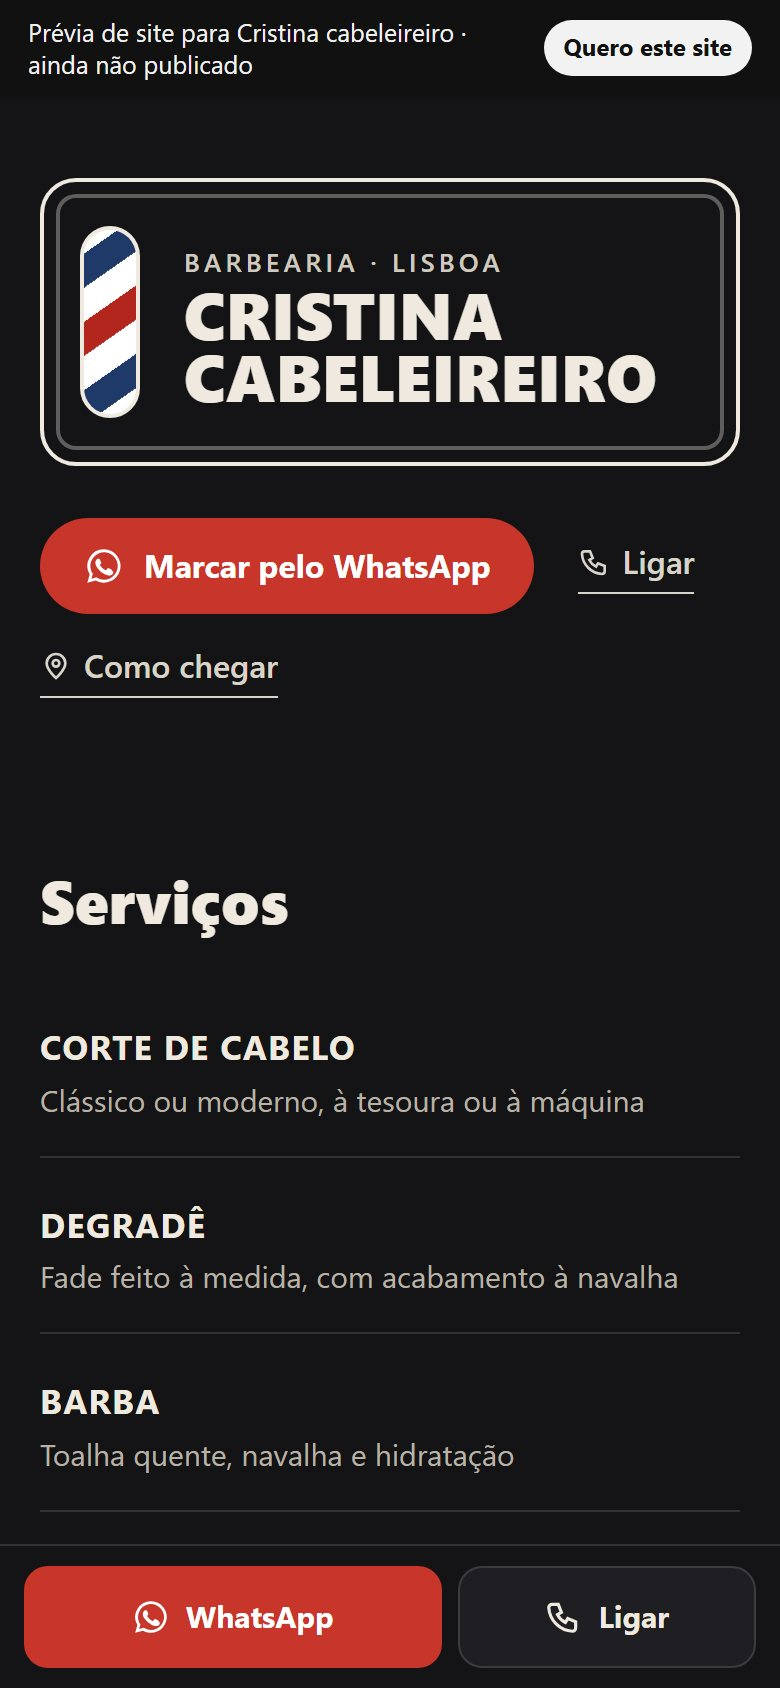
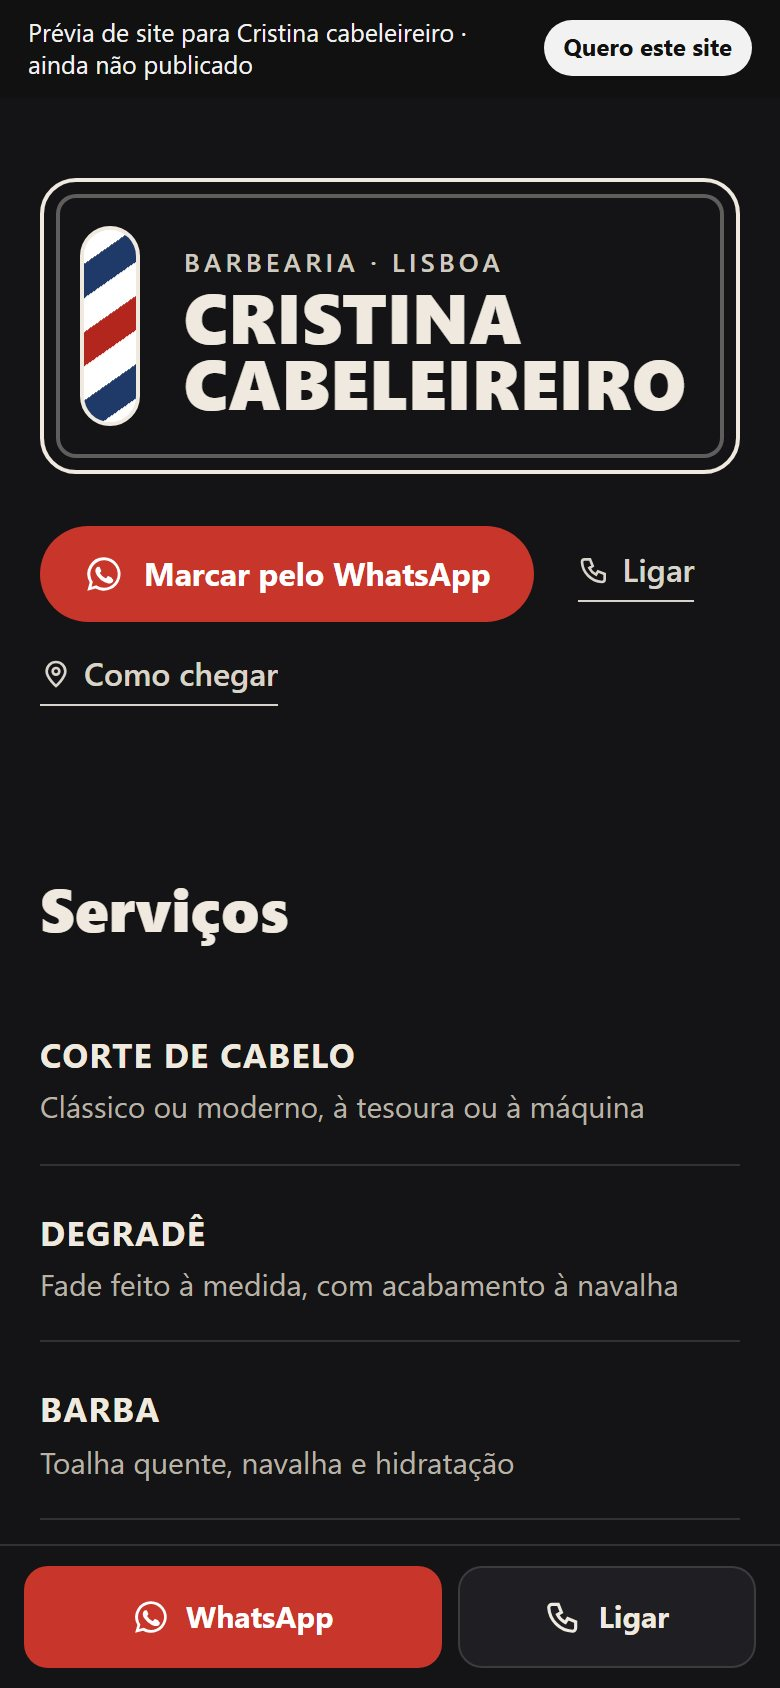
Regera prévias

diff --git a/barbas-shop-paris-lisboa/index.html b/barbas-shop-paris-lisboa/index.html
@@ -33,7 +33,7 @@ a{color:inherit}
 .lnk{display:inline-flex;align-items:center;gap:6px;font-weight:600;text-decoration:none;border-bottom:1.5px solid currentColor;padding-bottom:2px;opacity:.9}
 .lnk svg{width:16px;height:16px}
 .hero{position:relative;overflow:hidden}
-.nome{font-family:var(--titulo);font-weight:var(--peso-titulo,700);line-height:.95;letter-spacing:var(--esp-titulo,0);font-size:clamp(44px,12vw,108px);overflow-wrap:break-word}
+.nome{font-family:var(--titulo);font-weight:var(--peso-titulo,700);line-height:.95;letter-spacing:var(--esp-titulo,0);font-size:clamp(44px,12vw,108px);overflow-wrap:normal;min-width:0;max-width:100%}
 .tipo{font-size:13px;letter-spacing:.16em;text-transform:uppercase;font-weight:600;opacity:.85}
 .estrelas{display:inline-flex;align-items:center;gap:8px;font-size:14.5px;font-weight:600}
 .estrelas i{font-style:normal;letter-spacing:2px;color:var(--estrela)}
@@ -240,11 +240,10 @@ html.captura .mapa iframe{display:none}
   if(/[?&]captura=1/.test(location.search)) h.classList.add('captura');
   function ajustar(){
     document.querySelectorAll('[data-ajustar]').forEach(function(el){
-      el.style.fontSize='';
-      var cs=parseFloat(getComputedStyle(el).fontSize), lh=cs*1.0, max=2;
-      var w=el.parentElement.clientWidth;
-      var tries=0;
-      while((el.scrollWidth>w+2 || el.offsetHeight>lh*max*1.12) && cs>22 && tries<60){cs-=2;el.style.fontSize=cs+'px';lh=cs;tries++;}
+      el.style.fontSize=''; el.style.overflowWrap='normal';
+      var cs=parseFloat(getComputedStyle(el).fontSize), tries=0;
+      while((el.scrollWidth>el.clientWidth+1 || el.offsetHeight>cs*2.25) && cs>22 && tries<90){cs-=2;el.style.fontSize=cs+'px';tries++;}
+      if(el.scrollWidth>el.clientWidth+1) el.style.overflowWrap='anywhere';
     });
   }
   ajustar(); window.addEventListener('resize',ajustar);

diff --git a/barbearia-atlas-lisboa/index.html b/barbearia-atlas-lisboa/index.html
@@ -33,7 +33,7 @@ a{color:inherit}
 .lnk{display:inline-flex;align-items:center;gap:6px;font-weight:600;text-decoration:none;border-bottom:1.5px solid currentColor;padding-bottom:2px;opacity:.9}
 .lnk svg{width:16px;height:16px}
 .hero{position:relative;overflow:hidden}
-.nome{font-family:var(--titulo);font-weight:var(--peso-titulo,700);line-height:.95;letter-spacing:var(--esp-titulo,0);font-size:clamp(44px,12vw,108px);overflow-wrap:break-word}
+.nome{font-family:var(--titulo);font-weight:var(--peso-titulo,700);line-height:.95;letter-spacing:var(--esp-titulo,0);font-size:clamp(44px,12vw,108px);overflow-wrap:normal;min-width:0;max-width:100%}
 .tipo{font-size:13px;letter-spacing:.16em;text-transform:uppercase;font-weight:600;opacity:.85}
 .estrelas{display:inline-flex;align-items:center;gap:8px;font-size:14.5px;font-weight:600}
 .estrelas i{font-style:normal;letter-spacing:2px;color:var(--estrela)}
@@ -240,11 +240,10 @@ html.captura .mapa iframe{display:none}
   if(/[?&]captura=1/.test(location.search)) h.classList.add('captura');
   function ajustar(){
     document.querySelectorAll('[data-ajustar]').forEach(function(el){
-      el.style.fontSize='';
-      var cs=parseFloat(getComputedStyle(el).fontSize), lh=cs*1.0, max=2;
-      var w=el.parentElement.clientWidth;
-      var tries=0;
-      while((el.scrollWidth>w+2 || el.offsetHeight>lh*max*1.12) && cs>22 && tries<60){cs-=2;el.style.fontSize=cs+'px';lh=cs;tries++;}
+      el.style.fontSize=''; el.style.overflowWrap='normal';
+      var cs=parseFloat(getComputedStyle(el).fontSize), tries=0;
+      while((el.scrollWidth>el.clientWidth+1 || el.offsetHeight>cs*2.25) && cs>22 && tries<90){cs-=2;el.style.fontSize=cs+'px';tries++;}
+      if(el.scrollWidth>el.clientWidth+1) el.style.overflowWrap='anywhere';
     });
   }
   ajustar(); window.addEventListener('resize',ajustar);

diff --git a/barbearia-suprema-lisboa/index.html b/barbearia-suprema-lisboa/index.html
@@ -33,7 +33,7 @@ a{color:inherit}
 .lnk{display:inline-flex;align-items:center;gap:6px;font-weight:600;text-decoration:none;border-bottom:1.5px solid currentColor;padding-bottom:2px;opacity:.9}
 .lnk svg{width:16px;height:16px}
 .hero{position:relative;overflow:hidden}
-.nome{font-family:var(--titulo);font-weight:var(--peso-titulo,700);line-height:.95;letter-spacing:var(--esp-titulo,0);font-size:clamp(44px,12vw,108px);overflow-wrap:break-word}
+.nome{font-family:var(--titulo);font-weight:var(--peso-titulo,700);line-height:.95;letter-spacing:var(--esp-titulo,0);font-size:clamp(44px,12vw,108px);overflow-wrap:normal;min-width:0;max-width:100%}
 .tipo{font-size:13px;letter-spacing:.16em;text-transform:uppercase;font-weight:600;opacity:.85}
 .estrelas{display:inline-flex;align-items:center;gap:8px;font-size:14.5px;font-weight:600}
 .estrelas i{font-style:normal;letter-spacing:2px;color:var(--estrela)}
@@ -240,11 +240,10 @@ html.captura .mapa iframe{display:none}
   if(/[?&]captura=1/.test(location.search)) h.classList.add('captura');
   function ajustar(){
     document.querySelectorAll('[data-ajustar]').forEach(function(el){
-      el.style.fontSize='';
-      var cs=parseFloat(getComputedStyle(el).fontSize), lh=cs*1.0, max=2;
-      var w=el.parentElement.clientWidth;
-      var tries=0;
-      while((el.scrollWidth>w+2 || el.offsetHeight>lh*max*1.12) && cs>22 && tries<60){cs-=2;el.style.fontSize=cs+'px';lh=cs;tries++;}
+      el.style.fontSize=''; el.style.overflowWrap='normal';
+      var cs=parseFloat(getComputedStyle(el).fontSize), tries=0;
+      while((el.scrollWidth>el.clientWidth+1 || el.offsetHeight>cs*2.25) && cs>22 && tries<90){cs-=2;el.style.fontSize=cs+'px';tries++;}
+      if(el.scrollWidth>el.clientWidth+1) el.style.overflowWrap='anywhere';
     });
   }
   ajustar(); window.addEventListener('resize',ajustar);

diff --git a/barbeiro-infante-lisboa/index.html b/barbeiro-infante-lisboa/index.html
@@ -33,7 +33,7 @@ a{color:inherit}
 .lnk{display:inline-flex;align-items:center;gap:6px;font-weight:600;text-decoration:none;border-bottom:1.5px solid currentColor;padding-bottom:2px;opacity:.9}
 .lnk svg{width:16px;height:16px}
 .hero{position:relative;overflow:hidden}
-.nome{font-family:var(--titulo);font-weight:var(--peso-titulo,700);line-height:.95;letter-spacing:var(--esp-titulo,0);font-size:clamp(44px,12vw,108px);overflow-wrap:break-word}
+.nome{font-family:var(--titulo);font-weight:var(--peso-titulo,700);line-height:.95;letter-spacing:var(--esp-titulo,0);font-size:clamp(44px,12vw,108px);overflow-wrap:normal;min-width:0;max-width:100%}
 .tipo{font-size:13px;letter-spacing:.16em;text-transform:uppercase;font-weight:600;opacity:.85}
 .estrelas{display:inline-flex;align-items:center;gap:8px;font-size:14.5px;font-weight:600}
 .estrelas i{font-style:normal;letter-spacing:2px;color:var(--estrela)}
@@ -240,11 +240,10 @@ html.captura .mapa iframe{display:none}
   if(/[?&]captura=1/.test(location.search)) h.classList.add('captura');
   function ajustar(){
     document.querySelectorAll('[data-ajustar]').forEach(function(el){
-      el.style.fontSize='';
-      var cs=parseFloat(getComputedStyle(el).fontSize), lh=cs*1.0, max=2;
-      var w=el.parentElement.clientWidth;
-      var tries=0;
-      while((el.scrollWidth>w+2 || el.offsetHeight>lh*max*1.12) && cs>22 && tries<60){cs-=2;el.style.fontSize=cs+'px';lh=cs;tries++;}
+      el.style.fontSize=''; el.style.overflowWrap='normal';
+      var cs=parseFloat(getComputedStyle(el).fontSize), tries=0;
+      while((el.scrollWidth>el.clientWidth+1 || el.offsetHeight>cs*2.25) && cs>22 && tries<90){cs-=2;el.style.fontSize=cs+'px';tries++;}
+      if(el.scrollWidth>el.clientWidth+1) el.style.overflowWrap='anywhere';
     });
   }
   ajustar(); window.addEventListener('resize',ajustar);

diff --git a/brave-barber-shop-lisboa/index.html b/brave-barber-shop-lisboa/index.html
@@ -33,7 +33,7 @@ a{color:inherit}
 .lnk{display:inline-flex;align-items:center;gap:6px;font-weight:600;text-decoration:none;border-bottom:1.5px solid currentColor;padding-bottom:2px;opacity:.9}
 .lnk svg{width:16px;height:16px}
 .hero{position:relative;overflow:hidden}
-.nome{font-family:var(--titulo);font-weight:var(--peso-titulo,700);line-height:.95;letter-spacing:var(--esp-titulo,0);font-size:clamp(44px,12vw,108px);overflow-wrap:break-word}
+.nome{font-family:var(--titulo);font-weight:var(--peso-titulo,700);line-height:.95;letter-spacing:var(--esp-titulo,0);font-size:clamp(44px,12vw,108px);overflow-wrap:normal;min-width:0;max-width:100%}
 .tipo{font-size:13px;letter-spacing:.16em;text-transform:uppercase;font-weight:600;opacity:.85}
 .estrelas{display:inline-flex;align-items:center;gap:8px;font-size:14.5px;font-weight:600}
 .estrelas i{font-style:normal;letter-spacing:2px;color:var(--estrela)}
@@ -240,11 +240,10 @@ html.captura .mapa iframe{display:none}
   if(/[?&]captura=1/.test(location.search)) h.classList.add('captura');
   function ajustar(){
     document.querySelectorAll('[data-ajustar]').forEach(function(el){
-      el.style.fontSize='';
-      var cs=parseFloat(getComputedStyle(el).fontSize), lh=cs*1.0, max=2;
-      var w=el.parentElement.clientWidth;
-      var tries=0;
-      while((el.scrollWidth>w+2 || el.offsetHeight>lh*max*1.12) && cs>22 && tries<60){cs-=2;el.style.fontSize=cs+'px';lh=cs;tries++;}
+      el.style.fontSize=''; el.style.overflowWrap='normal';
+      var cs=parseFloat(getComputedStyle(el).fontSize), tries=0;
+      while((el.scrollWidth>el.clientWidth+1 || el.offsetHeight>cs*2.25) && cs>22 && tries<90){cs-=2;el.style.fontSize=cs+'px';tries++;}
+      if(el.scrollWidth>el.clientWidth+1) el.style.overflowWrap='anywhere';
     });
   }
   ajustar(); window.addEventListener('resize',ajustar);

diff --git a/cristina-cabeleireiro-lisboa/index.html b/cristina-cabeleireiro-lisboa/index.html
@@ -33,7 +33,7 @@ a{color:inherit}
 .lnk{display:inline-flex;align-items:center;gap:6px;font-weight:600;text-decoration:none;border-bottom:1.5px solid currentColor;padding-bottom:2px;opacity:.9}
 .lnk svg{width:16px;height:16px}
 .hero{position:relative;overflow:hidden}
-.nome{font-family:var(--titulo);font-weight:var(--peso-titulo,700);line-height:.95;letter-spacing:var(--esp-titulo,0);font-size:clamp(44px,12vw,108px);overflow-wrap:break-word}
+.nome{font-family:var(--titulo);font-weight:var(--peso-titulo,700);line-height:.95;letter-spacing:var(--esp-titulo,0);font-size:clamp(44px,12vw,108px);overflow-wrap:normal;min-width:0;max-width:100%}
 .tipo{font-size:13px;letter-spacing:.16em;text-transform:uppercase;font-weight:600;opacity:.85}
 .estrelas{display:inline-flex;align-items:center;gap:8px;font-size:14.5px;font-weight:600}
 .estrelas i{font-style:normal;letter-spacing:2px;color:var(--estrela)}
@@ -240,11 +240,10 @@ html.captura .mapa iframe{display:none}
   if(/[?&]captura=1/.test(location.search)) h.classList.add('captura');
   function ajustar(){
     document.querySelectorAll('[data-ajustar]').forEach(function(el){
-      el.style.fontSize='';
-      var cs=parseFloat(getComputedStyle(el).fontSize), lh=cs*1.0, max=2;
-      var w=el.parentElement.clientWidth;
-      var tries=0;
-      while((el.scrollWidth>w+2 || el.offsetHeight>lh*max*1.12) && cs>22 && tries<60){cs-=2;el.style.fontSize=cs+'px';lh=cs;tries++;}
+      el.style.fontSize=''; el.style.overflowWrap='normal';
+      var cs=parseFloat(getComputedStyle(el).fontSize), tries=0;
+      while((el.scrollWidth>el.clientWidth+1 || el.offsetHeight>cs*2.25) && cs>22 && tries<90){cs-=2;el.style.fontSize=cs+'px';tries++;}
+      if(el.scrollWidth>el.clientWidth+1) el.style.overflowWrap='anywhere';
     });
   }
   ajustar(); window.addEventListener('resize',ajustar);

diff --git a/elpatronbarbershop6-lisboa/index.html b/elpatronbarbershop6-lisboa/index.html
@@ -33,7 +33,7 @@ a{color:inherit}
 .lnk{display:inline-flex;align-items:center;gap:6px;font-weight:600;text-decoration:none;border-bottom:1.5px solid currentColor;padding-bottom:2px;opacity:.9}
 .lnk svg{width:16px;height:16px}
 .hero{position:relative;overflow:hidden}
-.nome{font-family:var(--titulo);font-weight:var(--peso-titulo,700);line-height:.95;letter-spacing:var(--esp-titulo,0);font-size:clamp(44px,12vw,108px);overflow-wrap:break-word}
+.nome{font-family:var(--titulo);font-weight:var(--peso-titulo,700);line-height:.95;letter-spacing:var(--esp-titulo,0);font-size:clamp(44px,12vw,108px);overflow-wrap:normal;min-width:0;max-width:100%}
 .tipo{font-size:13px;letter-spacing:.16em;text-transform:uppercase;font-weight:600;opacity:.85}
 .estrelas{display:inline-flex;align-items:center;gap:8px;font-size:14.5px;font-weight:600}
 .estrelas i{font-style:normal;letter-spacing:2px;color:var(--estrela)}
@@ -239,11 +239,10 @@ html.captura .mapa iframe{display:none}
   if(/[?&]captura=1/.test(location.search)) h.classList.add('captura');
   function ajustar(){
     document.querySelectorAll('[data-ajustar]').forEach(function(el){
-      el.style.fontSize='';
-      var cs=parseFloat(getComputedStyle(el).fontSize), lh=cs*1.0, max=2;
-      var w=el.parentElement.clientWidth;
-      var tries=0;
-      while((el.scrollWidth>w+2 || el.offsetHeight>lh*max*1.12) && cs>22 && tries<60){cs-=2;el.style.fontSize=cs+'px';lh=cs;tries++;}
+      el.style.fontSize=''; el.style.overflowWrap='normal';
+      var cs=parseFloat(getComputedStyle(el).fontSize), tries=0;
+      while((el.scrollWidth>el.clientWidth+1 || el.offsetHeight>cs*2.25) && cs>22 && tries<90){cs-=2;el.style.fontSize=cs+'px';tries++;}
+      if(el.scrollWidth>el.clientWidth+1) el.style.overflowWrap='anywhere';
     });
   }
   ajustar(); window.addEventListener('resize',ajustar);

diff --git a/kings-barbearia-lisboa/index.html b/kings-barbearia-lisboa/index.html
@@ -33,7 +33,7 @@ a{color:inherit}
 .lnk{display:inline-flex;align-items:center;gap:6px;font-weight:600;text-decoration:none;border-bottom:1.5px solid currentColor;padding-bottom:2px;opacity:.9}
 .lnk svg{width:16px;height:16px}
 .hero{position:relative;overflow:hidden}
-.nome{font-family:var(--titulo);font-weight:var(--peso-titulo,700);line-height:.95;letter-spacing:var(--esp-titulo,0);font-size:clamp(44px,12vw,108px);overflow-wrap:break-word}
+.nome{font-family:var(--titulo);font-weight:var(--peso-titulo,700);line-height:.95;letter-spacing:var(--esp-titulo,0);font-size:clamp(44px,12vw,108px);overflow-wrap:normal;min-width:0;max-width:100%}
 .tipo{font-size:13px;letter-spacing:.16em;text-transform:uppercase;font-weight:600;opacity:.85}
 .estrelas{display:inline-flex;align-items:center;gap:8px;font-size:14.5px;font-weight:600}
 .estrelas i{font-style:normal;letter-spacing:2px;color:var(--estrela)}
@@ -240,11 +240,10 @@ html.captura .mapa iframe{display:none}
   if(/[?&]captura=1/.test(location.search)) h.classList.add('captura');
   function ajustar(){
     document.querySelectorAll('[data-ajustar]').forEach(function(el){
-      el.style.fontSize='';
-      var cs=parseFloat(getComputedStyle(el).fontSize), lh=cs*1.0, max=2;
-      var w=el.parentElement.clientWidth;
-      var tries=0;
-      while((el.scrollWidth>w+2 || el.offsetHeight>lh*max*1.12) && cs>22 && tries<60){cs-=2;el.style.fontSize=cs+'px';lh=cs;tries++;}
+      el.style.fontSize=''; el.style.overflowWrap='normal';
+      var cs=parseFloat(getComputedStyle(el).fontSize), tries=0;
+      while((el.scrollWidth>el.clientWidth+1 || el.offsetHeight>cs*2.25) && cs>22 && tries<90){cs-=2;el.style.fontSize=cs+'px';tries++;}
+      if(el.scrollWidth>el.clientWidth+1) el.style.overflowWrap='anywhere';
     });
   }
   ajustar(); window.addEventListener('resize',ajustar);

diff --git a/silva-otelo-lisboa/index.html b/silva-otelo-lisboa/index.html
@@ -33,7 +33,7 @@ a{color:inherit}
 .lnk{display:inline-flex;align-items:center;gap:6px;font-weight:600;text-decoration:none;border-bottom:1.5px solid currentColor;padding-bottom:2px;opacity:.9}
 .lnk svg{width:16px;height:16px}
 .hero{position:relative;overflow:hidden}
-.nome{font-family:var(--titulo);font-weight:var(--peso-titulo,700);line-height:.95;letter-spacing:var(--esp-titulo,0);font-size:clamp(44px,12vw,108px);overflow-wrap:break-word}
+.nome{font-family:var(--titulo);font-weight:var(--peso-titulo,700);line-height:.95;letter-spacing:var(--esp-titulo,0);font-size:clamp(44px,12vw,108px);overflow-wrap:normal;min-width:0;max-width:100%}
 .tipo{font-size:13px;letter-spacing:.16em;text-transform:uppercase;font-weight:600;opacity:.85}
 .estrelas{display:inline-flex;align-items:center;gap:8px;font-size:14.5px;font-weight:600}
 .estrelas i{font-style:normal;letter-spacing:2px;color:var(--estrela)}
@@ -240,11 +240,10 @@ html.captura .mapa iframe{display:none}
   if(/[?&]captura=1/.test(location.search)) h.classList.add('captura');
   function ajustar(){
     document.querySelectorAll('[data-ajustar]').forEach(function(el){
-      el.style.fontSize='';
-      var cs=parseFloat(getComputedStyle(el).fontSize), lh=cs*1.0, max=2;
-      var w=el.parentElement.clientWidth;
-      var tries=0;
-      while((el.scrollWidth>w+2 || el.offsetHeight>lh*max*1.12) && cs>22 && tries<60){cs-=2;el.style.fontSize=cs+'px';lh=cs;tries++;}
+      el.style.fontSize=''; el.style.overflowWrap='normal';
+      var cs=parseFloat(getComputedStyle(el).fontSize), tries=0;
+      while((el.scrollWidth>el.clientWidth+1 || el.offsetHeight>cs*2.25) && cs>22 && tries<90){cs-=2;el.style.fontSize=cs+'px';tries++;}
+      if(el.scrollWidth>el.clientWidth+1) el.style.overflowWrap='anywhere';
     });
   }
   ajustar(); window.addEventListener('resize',ajustar);

diff --git a/vix-barbershop1-lisboa/index.html b/vix-barbershop1-lisboa/index.html
@@ -33,7 +33,7 @@ a{color:inherit}
 .lnk{display:inline-flex;align-items:center;gap:6px;font-weight:600;text-decoration:none;border-bottom:1.5px solid currentColor;padding-bottom:2px;opacity:.9}
 .lnk svg{width:16px;height:16px}
 .hero{position:relative;overflow:hidden}
-.nome{font-family:var(--titulo);font-weight:var(--peso-titulo,700);line-height:.95;letter-spacing:var(--esp-titulo,0);font-size:clamp(44px,12vw,108px);overflow-wrap:break-word}
+.nome{font-family:var(--titulo);font-weight:var(--peso-titulo,700);line-height:.95;letter-spacing:var(--esp-titulo,0);font-size:clamp(44px,12vw,108px);overflow-wrap:normal;min-width:0;max-width:100%}
 .tipo{font-size:13px;letter-spacing:.16em;text-transform:uppercase;font-weight:600;opacity:.85}
 .estrelas{display:inline-flex;align-items:center;gap:8px;font-size:14.5px;font-weight:600}
 .estrelas i{font-style:normal;letter-spacing:2px;color:var(--estrela)}
@@ -240,11 +240,10 @@ html.captura .mapa iframe{display:none}
   if(/[?&]captura=1/.test(location.search)) h.classList.add('captura');
   function ajustar(){
     document.querySelectorAll('[data-ajustar]').forEach(function(el){
-      el.style.fontSize='';
-      var cs=parseFloat(getComputedStyle(el).fontSize), lh=cs*1.0, max=2;
-      var w=el.parentElement.clientWidth;
-      var tries=0;
-      while((el.scrollWidth>w+2 || el.offsetHeight>lh*max*1.12) && cs>22 && tries<60){cs-=2;el.style.fontSize=cs+'px';lh=cs;tries++;}
+      el.style.fontSize=''; el.style.overflowWrap='normal';
+      var cs=parseFloat(getComputedStyle(el).fontSize), tries=0;
+      while((el.scrollWidth>el.clientWidth+1 || el.offsetHeight>cs*2.25) && cs>22 && tries<90){cs-=2;el.style.fontSize=cs+'px';tries++;}
+      if(el.scrollWidth>el.clientWidth+1) el.style.overflowWrap='anywhere';
     });
   }
   ajustar(); window.addEventListener('resize',ajustar);
